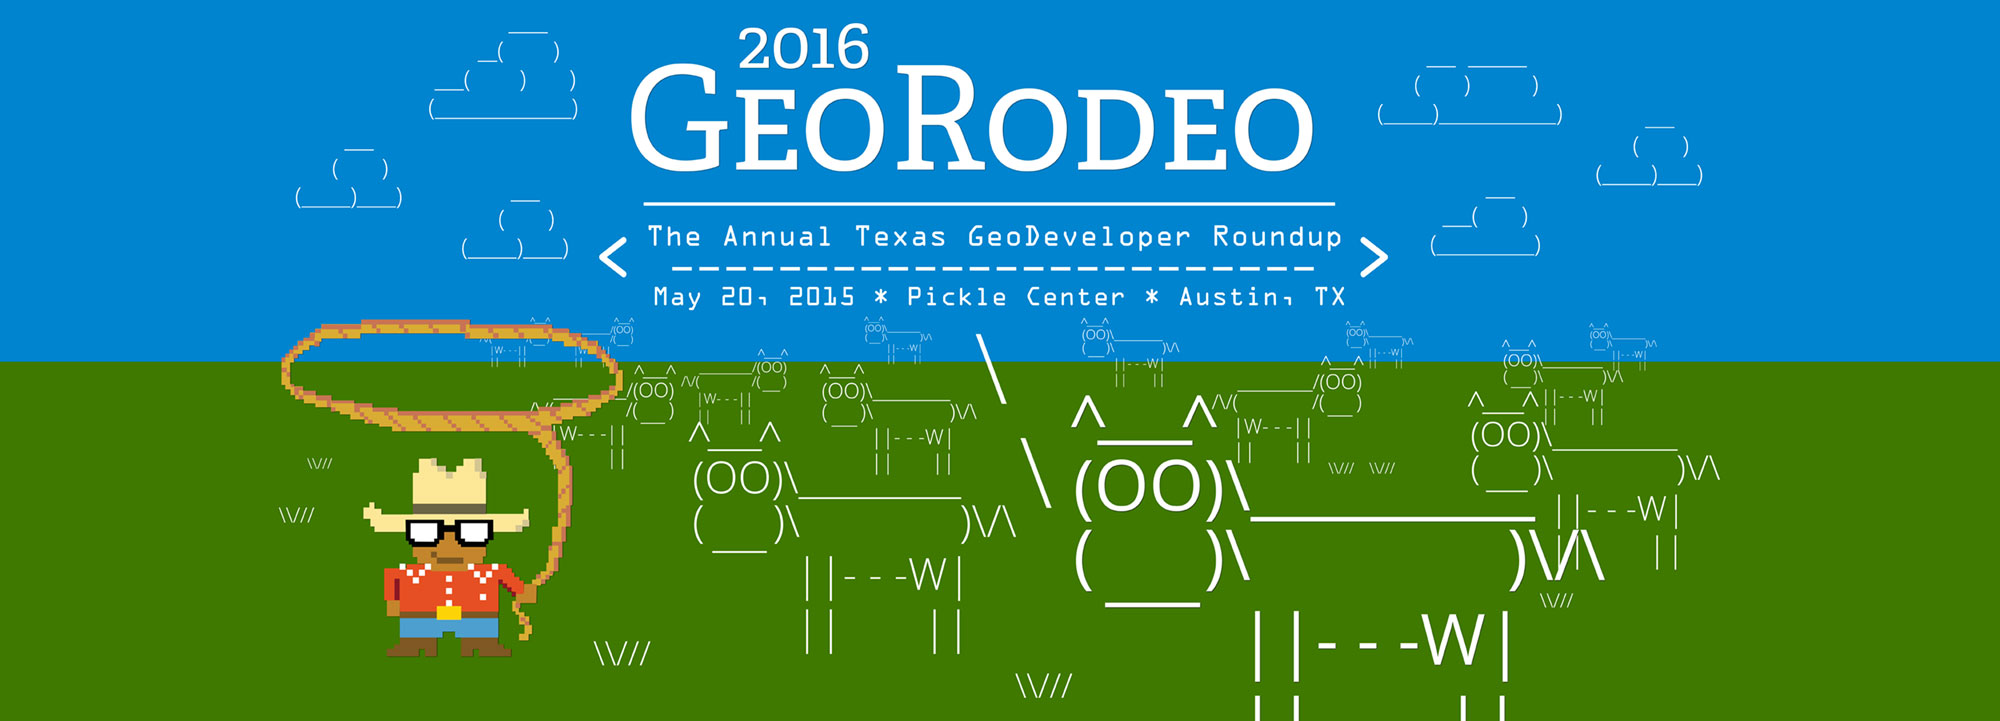
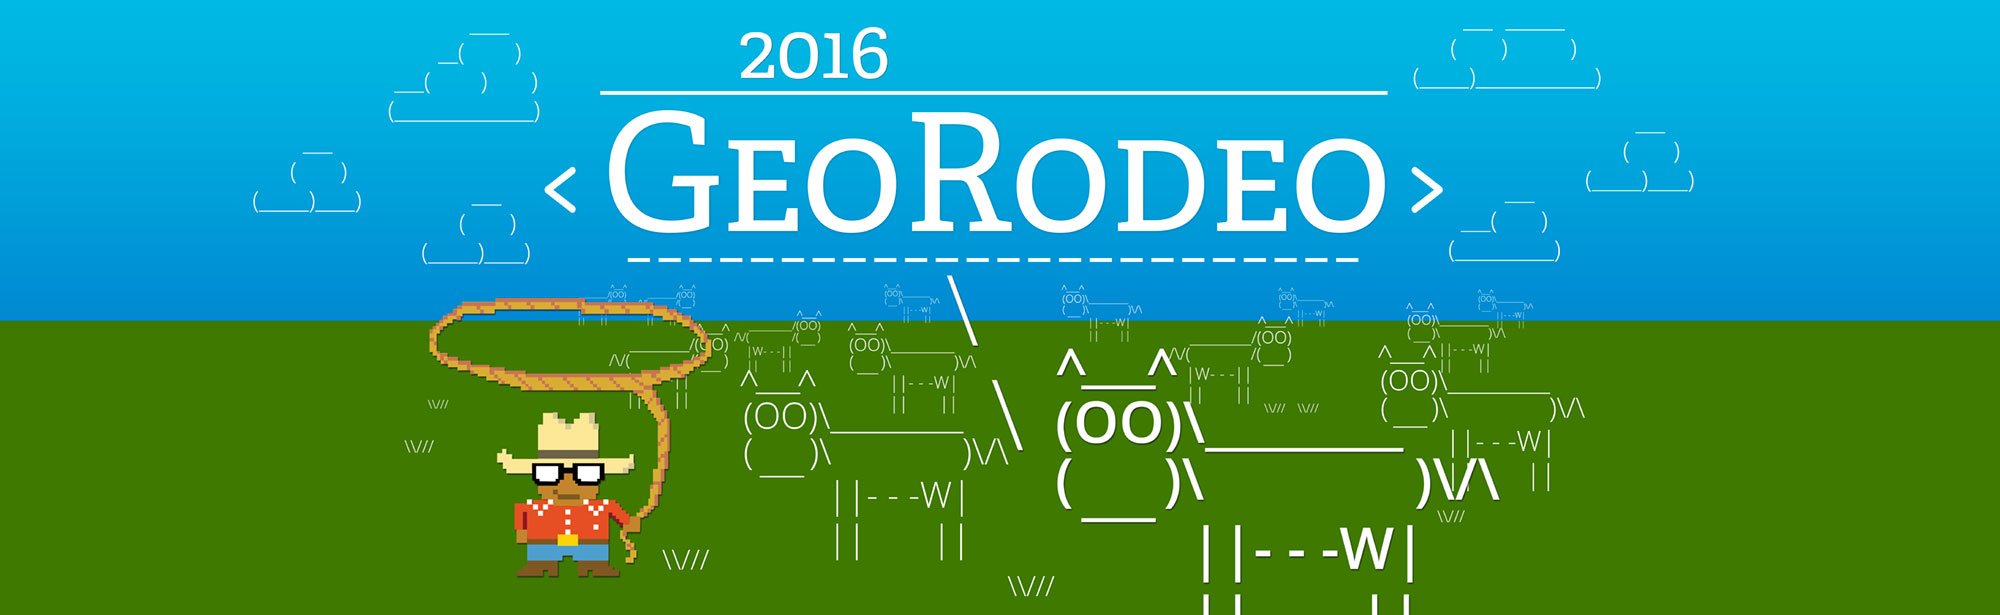
latest georodeo adjustments

diff --git a/templates/events/georodeo-2016/georodeo-sub.html b/templates/events/georodeo-2016/georodeo-sub.html
@@ -21,7 +21,7 @@
             <h1>{{title}}</h1> 
             {{abstract}}
         </div>
-          <a href="../../georodeo/2016"><img class="main hidden-xs" src="{{m.link(mainimage)}}" alt="Masthead for {{title}}">
+          <a href="https://www.tnris.org/georodeo/2016"><img class="main hidden-xs" src="{{m.link(mainimage)}}" alt="Masthead for {{title}}">
           <img class="img-responsive hidden-lg hidden-md hidden-sm" src="{{m.link('static/images/georodeo/2016/cowsay_pasture_sm.jpg')}}" alt="Small Masthead for {{title}}">
         </a>
         <div class="georodeo-2016-date-bar hidden-lg hidden-md hidden-sm">
@@ -34,14 +34,32 @@
 <div id="intro" class="georodeo-intro">
     <div class="container">
         <div class="row">
-          <div class="lead col-sm-8">
-            <h2>{{title}}</h2>
-            {{ contents|safe }} 
-          </div>
-          <div class="col-sm-4">
-              <a class="btn btn-danger btn-lg btn-block" href="https://www.regonline.com/Register/Checkin.aspx?EventID=1814545"><i class="glyphicon glyphicon-edit"></i> Become a Sponsor</a>
-          </div>
+          <div class="col-md-8">
+                <h1>{{title}}</h1> 
+              <p class="lead">
+                {{abstract}}
+              </p>
+            </div>
         </div>
     </div>
 </div>
 {% endblock topcontent %}
+
+{% block contents %}
+<div class="row">
+    <div class="col-md-8">
+        {{ contents|safe }} 
+        {% block extracontent %} {% endblock extracontent %}
+    </div>
+</div>
+{% endblock contents %}
+
+{% block contents-two %}
+<section class="georodeo-bottom">
+    <div class="container">
+        <div class="row">
+            {% include "./events/georodeo-2016/georodeo-map.html" %}   
+        </div>
+    </div>
+</section>
+{% endblock contents-two %}

diff --git a/templates/events/georodeo-2016/georodeo-intro.html b/templates/events/georodeo-2016/georodeo-intro.html
@@ -7,13 +7,13 @@
     <p class="lead">Registration is required in order to attend and is on a first-come, first-serve basis.</p>
         <a class="btn btn-danger btn-lg align-right" href="http://www.eventbrite.com/event/16287757120?ref=ebtn" target="_blank"><i class="glyphicon glyphicon-edit"></i> Register for the GeoRodeo</a>
 </div>
-<div class="col-sm-4">
-    <h3><small>Keynote Speaker</small><br>
+<div class="col-sm-4 intro-side">
+   <!--  <h3><small>Keynote Speaker</small><br>
 Waldo Jaquith, Data.gov</h3>
     <img class="img-circle" src="{{m.link('static/images/georodeo/2016/waldo1.jpg')}}" alt="Head shot of Andrew Hill from CartoDB">
     <p><strong>Waldo Jaquith</strong> <a href="http://data.gov">data.gov</a>....</p>
-        <hr>
+        <hr> -->
         <h3>Sponsors</h3>
     <p>Become a sponsor of the GeoRodeo and connect with the Texas GeoDeveloper community.</p>
-    <a class="btn btn-danger btn-lg center-block" style="max-width: 60%;" href="{{ m.link('georodeo/2016/become-a-sponsor')}}">Become a Sponsor</a>
+    <a class="btn btn-danger btn-lg btn-block" href="{{ m.link('georodeo/2016/become-a-sponsor')}}">Become a Sponsor</a>
 </div>

diff --git a/templates/events/georodeo-2016/georodeo-2016.html b/templates/events/georodeo-2016/georodeo-2016.html
@@ -22,7 +22,13 @@
             {{abstract}}
         </div>
         <img class="main hidden-xs" src="{{m.link(mainimage)}}" alt="Masthead for {{title}}">
-        <img class="img-responsive hidden-lg hidden-md hidden-sm" src="{{m.link('static/images/georodeo/small_georodeo.jpg')}}" alt="A banner for the 2015 GeoRodeo, Cowboy Nerd in front of Chisos Mountains">
+        <img class="img-responsive hidden-lg hidden-md hidden-sm" src="{{m.link('static/images/georodeo/2016/cowsay_pasture_sm.jpg')}}" alt="Small Masthead for {{title}}">
+
+
+        <div class="georodeo-2016-date-bar">
+          <div class="container">The Annual Texas GeoDeveloper Roundup<br>
+                    May 20, 2016 * Commons Center * Austin, TX</div>
+        </div>
     </div>
 </div>
 

diff --git a/scss/partials/_georodeo.scss b/scss/partials/_georodeo.scss
@@ -56,9 +56,9 @@
 
 
 .georodeo-intro {
-  padding-top: 40px;
+  padding-top: 20px;
   background: $canary;
-  padding-bottom: 40px;
+  padding-bottom: 20px;
 
   a.orange {
   color: $orange;
@@ -77,6 +77,11 @@
   }
 
   .lead {
+  }
+
+  h1 {
+    margin: 0;
+    margin-bottom: 10px;
   }
 
   h2 {
@@ -184,5 +189,25 @@
 
   tr:nth-child(even) td {
     background: $lightgrey;
+  }
+}
+
+.georodeo-2016-date-bar {
+    background: $darkgrey;
+    color: $white;
+    font-family: $lucida;
+    font-size: 20px;
+    font-weight: normal;
+    padding: 10px 0;
+    text-align: center;
+
+  @media (min-width: $screen-md) {
+    font-size: 30px;
+  }
+}
+
+.intro-side {
+  @media (min-width: $screen-md) {
+  padding-top: 35px;
   }
 }

diff --git a/scss/partials/_variables.scss b/scss/partials/_variables.scss
@@ -56,6 +56,7 @@ $opensans: 'Open Sans', sans-serif;
 $pragmatica: 'pragmatica-web-condensed', sans-serif;
 $proxima: 'proxima-nova', sans-serif;
 $adelle: 'adelle' ,serif;
+$lucida: 'Lucida Console', Monaco, monospace;
 
 // Media Queries //
 $break-med: 604px;

diff --git a/content/markdown/georodeo/2016/become-a-sponsor.md b/content/markdown/georodeo/2016/become-a-sponsor.md
@@ -1,19 +1,19 @@
 ---
 template: events/georodeo-2016/georodeo-sponsors.html
 title: Become a GeoRodeo sponsor
-mainimage: static/images/georodeo/georodeo_full_banner.jpg
+mainimage: static/images/georodeo/2016/cowsay_pasture_web_first.jpg
 abstract: Help Sponsor the GeoRodeo
 ---
 
 The GeoRodeo is a gathering of some of Texas's most forward-thinking Geospatial developers and other professionals seeking to incorporate new techniques and ideas into their work.
 
-We’re asking for your support to improve and upgrade the event for the Texas Geospatial community. 
+We’re asking for your support to help cover some of the costs of this free event for the Texas Geospatial community. 
 
-By becoming a sponsor, you will help us bring speakers from across the country and feed hungry code wranglers. 
-
-For a **$500 contribution**, you'll receive:
-- Recognition on the GeoRodeo website,
-- Acknowledgements during the event,
-- Distribution of your organization’s literature or information.
+**For a $500 contribution, you receive:**
+- Logo on the GeoRodeo website
+- Sign with Logo at the event
+- Verbal recognition during introductory remarks
 
 Thanks for supporting the GeoRodeo!
+
+

diff --git a/content/markdown/georodeo/2016/code-of-conduct.md b/content/markdown/georodeo/2016/code-of-conduct.md
@@ -1,11 +1,9 @@
 ---
-template: events/georodeo-2016/georodeo-2016.html
+template: events/georodeo-2016/georodeo-sub.html
 title: Conference Code of Conduct
 mainimage: static/images/georodeo/2016/cowsay_pasture_web_first.jpg
-abstract: Annual Texas GeoDeveloper Round-Up, May 22nd, Austin, Texas
---__
-
-All attendees, speakers, sponsors and volunteers at our conference are required to agree with the following code of conduct. Organisers will enforce this code throughout the event. We are expecting cooperation from all participants to help ensuring a safe environment for everybody.
+abstract: All attendees, speakers, sponsors and volunteers at our conference are required to agree with the following code of conduct. Organisers will enforce this code throughout the event. We are expecting cooperation from all participants to help ensuring a safe environment for everybody.
+---
 
 ## The Quick Version
 
